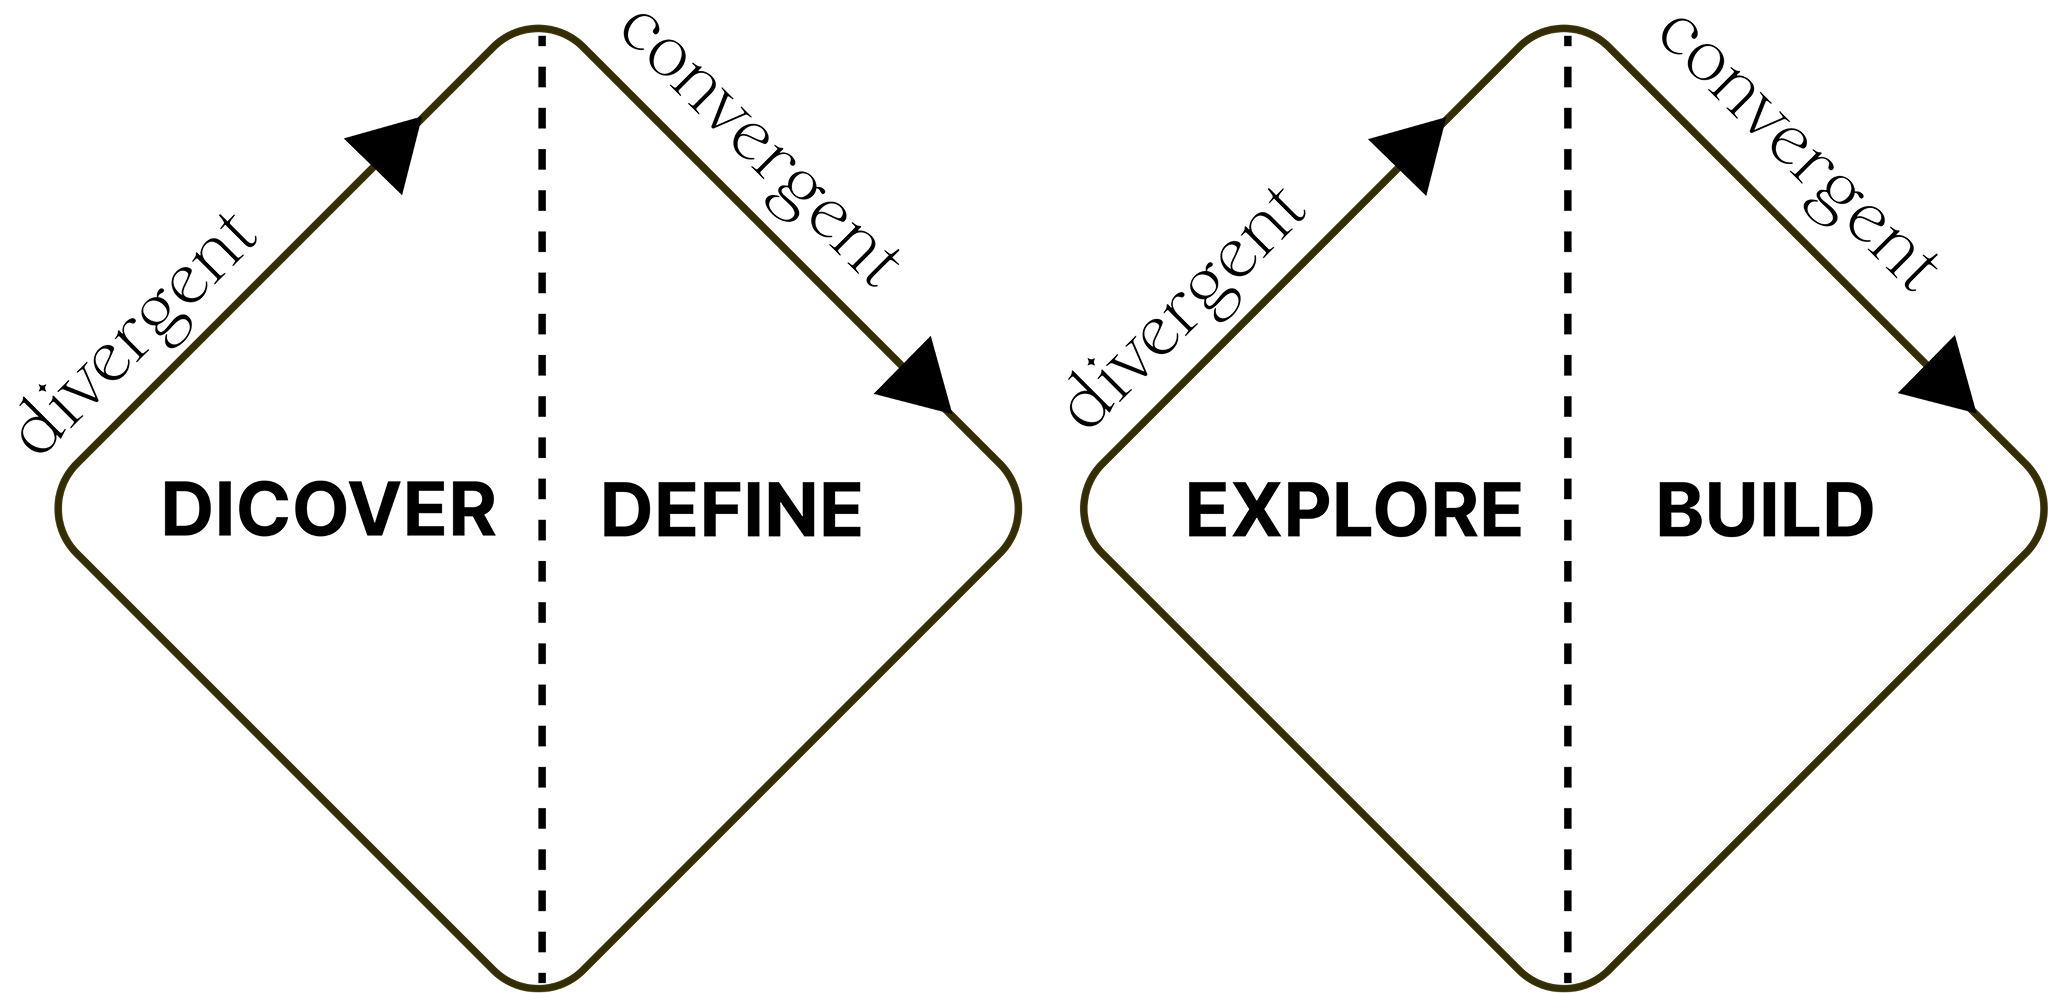
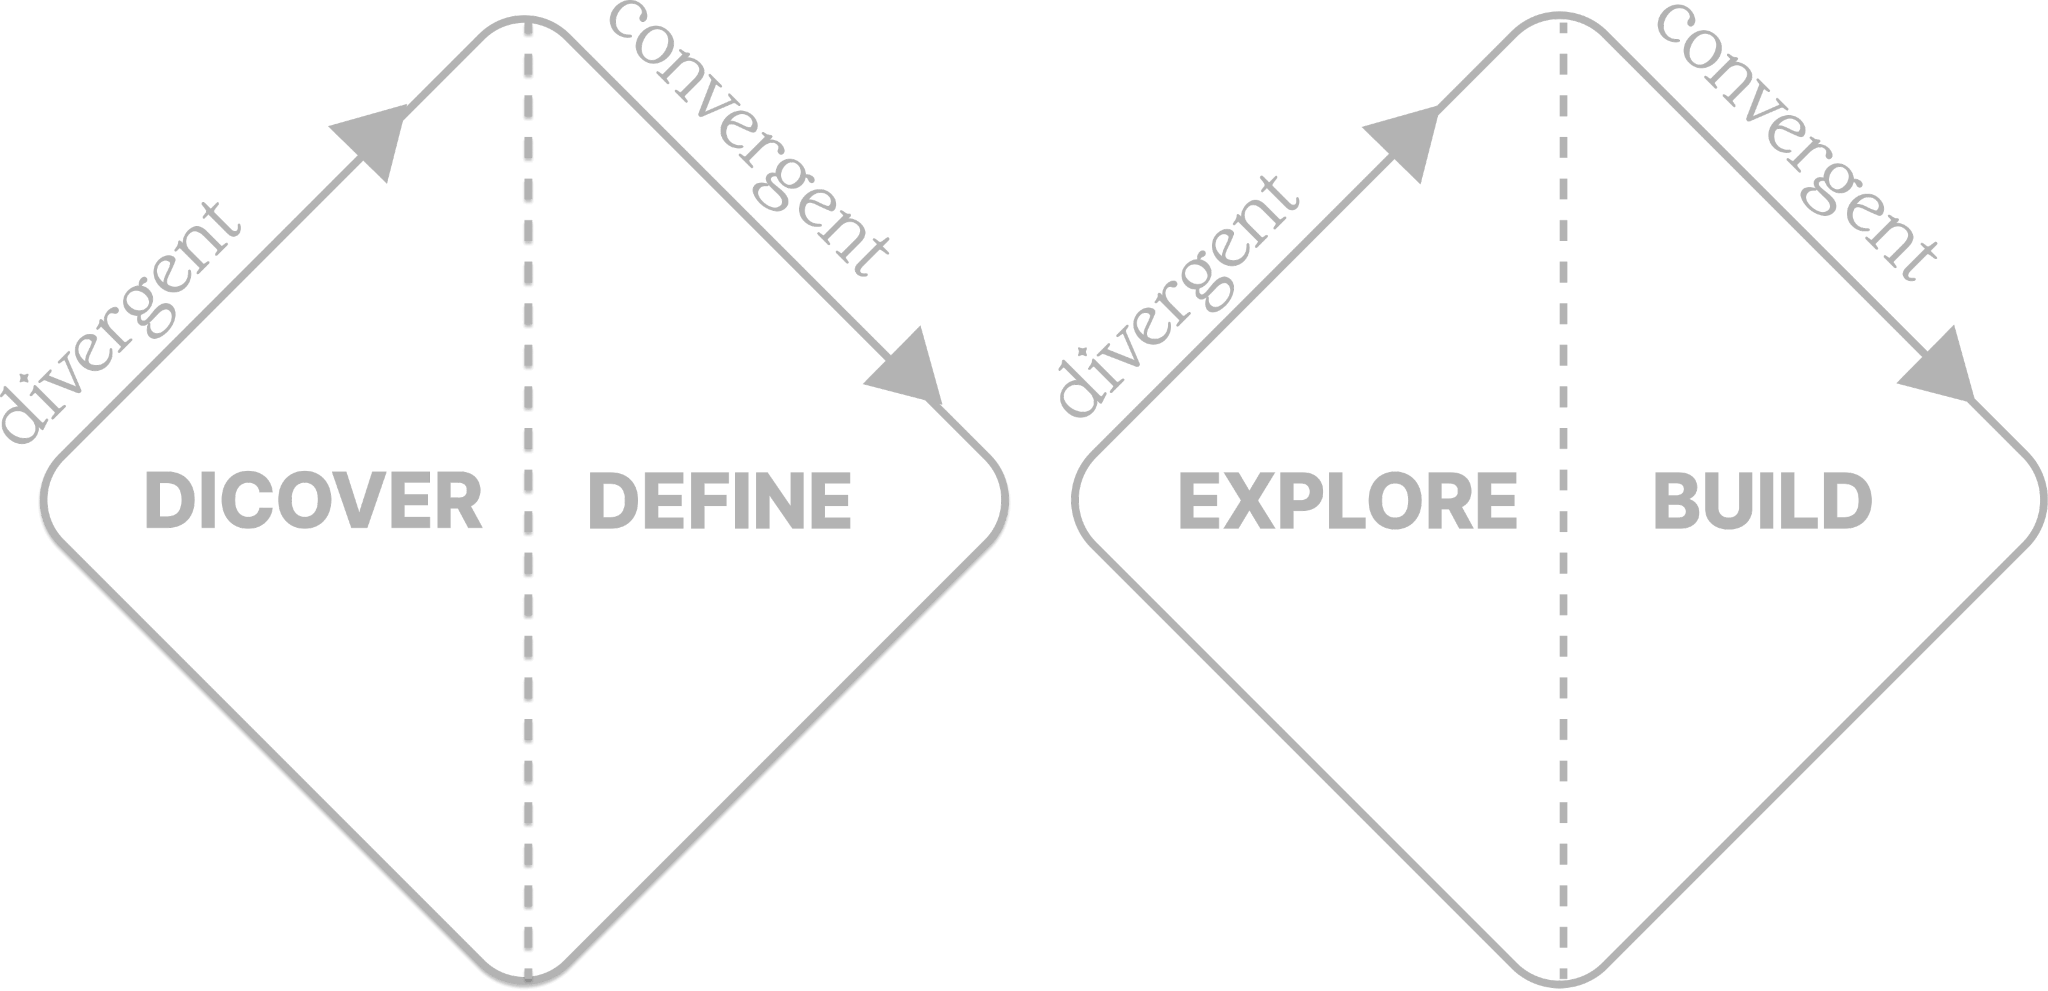
updated about page

diff --git a/css/styles.css b/css/styles.css
@@ -26,7 +26,7 @@
   --about-link-hover: #CFA14F; /* link hover */
 
   --service-btn-bg: #f3eef4;
-  --service-btn-text: #332D03;
+  --service-btn-text: #070706;
   --service-btn-span-bg: #332D03;
   --service-btn-span-text: #ffffff;
   
@@ -49,7 +49,6 @@
   --contact-input-bg: #47410f;
   --contact-input-text: whitesmoke;
   --contact-input-focus-bg: #332D03;
-  
 
 
 }
@@ -111,6 +110,7 @@ body.dark-mode {
   --contact-input-text: #D7CFA1;
   --contact-input-focus-bg: rgba(255, 255, 255, 0.15);
 
+
 }
 
 
@@ -150,9 +150,6 @@ button:hover, .btn:hover, .cta-button:hover {
 }
 
 
-
-
-
 .mode-toggle {
   /*background-color: var(--button-bg, #D7CFA1);*/
   background-color: #e0e5df;
@@ -181,7 +178,6 @@ body.dark-mode .mode-toggle {
 
 .dark-mode .mode-toggle:hover {
   background-color: var(--button-hover, whitesmoke);
-
 }
 
 
@@ -192,8 +188,9 @@ body.dark-mode .mode-toggle {
   width: 22px;              /* optional: slightly smaller for perfect visual balance */
   height: 22px;
    transform: translateY(1.1px); /* or -1px depending on which direction it’s off */
-}
 
+  
+}
 
 
 
@@ -203,19 +200,14 @@ body.dark-mode .mode-toggle {
   margin: 0;
   padding: 0;
   box-sizing: border-box;
-  transition: background-color 0.3s, color 0.3s;
-}
+/* Smooth transitions across all elements */
+    transition: background-color 0.3s, color 0.3s;
 
+}
 html {
   scroll-behavior: smooth; /* ✨ Smooth scrolling for anchors */
 }
-/* body {
-  font-family: "Inter", sans-serif;
-  background: #DED7DF; 
-  color: #332D03;
-  line-height: 1.6;
-  font-size: 16px;
-} */
+
 
 p {
   margin-bottom: 1.5em; /* adds space after each paragraph */
@@ -223,7 +215,7 @@ p {
 
 h1 {
   font-family: 'Aesthetic', serif;
-  font-weight: 20;
+    font-weight: 20;
 }
 
 .hero-text{
@@ -232,7 +224,6 @@ h1 {
     font-weight: 20;
       width: 80%;
       padding: 0.5rem 0;
-
 }
 
 h2 {
@@ -244,18 +235,16 @@ h2 {
   transition: color 0.4s ease;
 }
 
-/* highlight color */
+
 ::selection {
-  background: #175079; 
-  color: whitesmoke;      
+  background: #175079; /* your soft purple theme color */
+  color: whitesmoke;      /* your normal text color */
 }
 
 ::-moz-selection {
-  background: #175079;
-  color: whitesmoke;   
+  background: #175079; /* your soft purple theme color */
+  color: whitesmoke;      /* your normal text color */
 }
-
-
 
 
 /* CONTAINER */
@@ -1407,7 +1396,7 @@ align-items: flex-start;
 } */
 
 
-/* Services Section*/
+/* Process/Services Section*/
 
 .services-section {
   background-color: var(--about-bg);
@@ -1423,7 +1412,7 @@ align-items: flex-start;
 
 .services-container {
   display: flex;
-  align-items:self-start;
+  align-items:center;
   justify-content: space-between;
   gap: 3rem;
   flex-wrap: wrap;
@@ -1509,7 +1498,6 @@ align-items: flex-start;
 }
 
 
-
 /* Expertise Section */
 
 .expertise-section {
@@ -1576,6 +1564,14 @@ align-items: flex-start;
 }
 
 
+.client-feedback{
+
+margin-bottom: 10rem;
+  
+}
+
+
+
 
 
 
@@ -1592,19 +1588,21 @@ align-items: flex-start;
 
 .about-quote blockquote {
   font-family: 'DTNightingale', "Sora", serif;
-  font-size: 2rem;
+  font-size: 1.5rem;
   line-height: 1.6;
   max-width: 800px;
   margin: 0 auto;
   position: relative;
 }
 
+
+
 .about-quote blockquote::before,
 .about-quote blockquote::after {
   content: "“";
   font-family: "Sora", serif;
   position: absolute;
-  font-size: 5rem;
+  font-size: 3rem;
     color: #5b5105;
 }
 
@@ -1618,6 +1616,38 @@ align-items: flex-start;
   bottom: -3rem;
   right: -3rem;
 }
+
+.view-all-projects{
+text-align: center;
+padding: 5rem 0;
+}
+
+
+.view-all-projects a {
+  position: relative;         /* needed for ::after positioning */
+  text-decoration: none;      /* remove default underline */
+  color: var(--text-color);
+  font-weight: 500;
+}
+
+.view-all-projects a::after {
+  content: '';
+  position: absolute;
+  left: 0;
+  bottom: 0;
+  height: 1.5px;                /* underline thickness */
+  width: 100%;
+  background-color: var(--text-color);
+  transform: scaleX(0);       /* hide initially */
+  transform-origin: left;
+  transition: transform 0.3s ease;
+}
+
+.view-all-projects a:hover::after {
+  transform: scaleX(1);       /* animate underline on hover */
+}
+
+
 
 /* Collaborations Section */
 .about-collab {
@@ -2552,13 +2582,27 @@ display:none;
   border-top: 1px;
 }
 
+.service-icon{
+
+   width: 40px;    /* or whatever size you want */
+  height: auto;   /* preserves aspect ratio */
+  display: block; /* removes small gaps under image */
+
+}
+
+.service-icon img {
+  width: 100%;
+  height: 100%;
+  object-fit: contain; /* keeps proportions */
+}
+
 .double-diamond{
+
   width:100%;
   height: auto;
-  padding: 1rem 1rem 1rem 0;
 
-  
 }
+
 
 .brand-scroll{
   display: none;

diff --git a/about.html b/about.html
@@ -3,14 +3,13 @@
 <head>
   <meta charset="UTF-8" />
   <meta name="viewport" content="width=device-width, initial-scale=1.0" />
-  <title>About | Lulu Xu</title>
+  <title>About | Justin Jet Zorbas</title>
   <link href="https://fonts.googleapis.com/css2?family=Habibi&display=swap" rel="stylesheet">
   <link href="https://fonts.googleapis.com/css2?family=Grenze+Gotisch:wght@400;600;700&display=swap" rel="stylesheet">
   <link rel="stylesheet" href="css/styles.css">
   <link rel="stylesheet" href="https://cdnjs.cloudflare.com/ajax/libs/font-awesome/6.5.0/css/all.min.css">
 <!-- Font Awesome for social icons -->
 <link rel="stylesheet" href="https://cdnjs.cloudflare.com/ajax/libs/font-awesome/6.5.0/css/all.min.css">
-        <link rel="icon" href="/images/browerIcon.png" type="image/png">
 
   <script defer src="script.js"></script>
 
@@ -248,14 +247,16 @@ I’m Lu — a creative designer and storyteller who brings together design stra
       <div class="service-text active" id="discover">
         <p>In this phase, I immerse myself in understanding the story, goals, and audience — through research, interviews, and insights gathering. It’s about finding clarity before creation.</p>
       </div>
+
       <div class="service-text" id="design">
         <p>Here, ideas take shape. I explore creative directions, prototypes, and visuals that translate insight into meaningful design and storytelling.</p>
       </div>
       <div class="service-text" id="deliver">
         <p>This is where everything comes together — refining, producing, and delivering outcomes that connect people and inspire change. You’re invited to be part of every step of the process.</p>
       </div>
-              <img class="double-diamond" src="images/double-diamond.png" alt="Project 10">
-    </div>
+               <img class="double-diamond" src="images/double-diamond.png" alt="Project 10">
+
+        </div>
 
     <!-- Right: clickable titles -->
     <div class="service-titles">
@@ -269,7 +270,11 @@ I’m Lu — a creative designer and storyteller who brings together design stra
 </section>
 
 
-
+ <!--<section class="services-section reveal">
+<div class="container">
+<img  src="images/client-feedback.png" alt="Project 10">
+</div>
+</section>-->
 
 
 
@@ -279,11 +284,54 @@ I’m Lu — a creative designer and storyteller who brings together design stra
   <section class="about-quote reveal">
     <div class="container">
       <blockquote>
-        <p> <em>Thoughtful design & storytelling have the power to create connection and foster change.</em></p>
+         <!--  <p> <em>Thoughtful design & storytelling have the power to create connection and foster change.</em></p>-->
+      <p>Working with Lulu was a highly enjoyable experience, as she was often checking in and offering suggestions on ways to improve the site and find the right style to suit my business image.
+</p>
+   <p><em>- Justin Jet Zorbas
+</em></p>
+      
       </blockquote>
     </div>
   </section>
 
+
+  
+<!-- Project Filter -->
+<section class="work reveal">
+  <div class="container">
+
+    <!-- Project Grid -->
+    <div class="project-grid-filter">
+
+      <!-- 🎥 Story-Based Videos -->
+      <div class="project-card video-project" data-category="website development ux research visual">
+        <a href="project-justinSite.html">
+          <video autoplay loop muted playsinline class="loop-video">
+            <source src="images/justinSite-fireflyNew.webm" type="video/webm" />
+            <source src="images/justinSite-fireflyNew.mp4" type="video/mp4" />
+          </video>
+   </a>
+      </div>
+
+      
+      <div class="project-card" data-category="ux app research">
+        <a href="project-belonging.html">
+          <img src="images/belonging-horizontalScroll.jpg" alt="Macquarie University Belonging App">
+          
+             
+         
+        </a>
+      </div> 
+
+  </div>
+
+<h2 class="view-all-projects"> 
+  <a href="work.html"><em>View All Projects </em> </a>
+</h2>
+
+
+</div>
+</section>
 
 
 <section class="gallery-tilt reveal">
